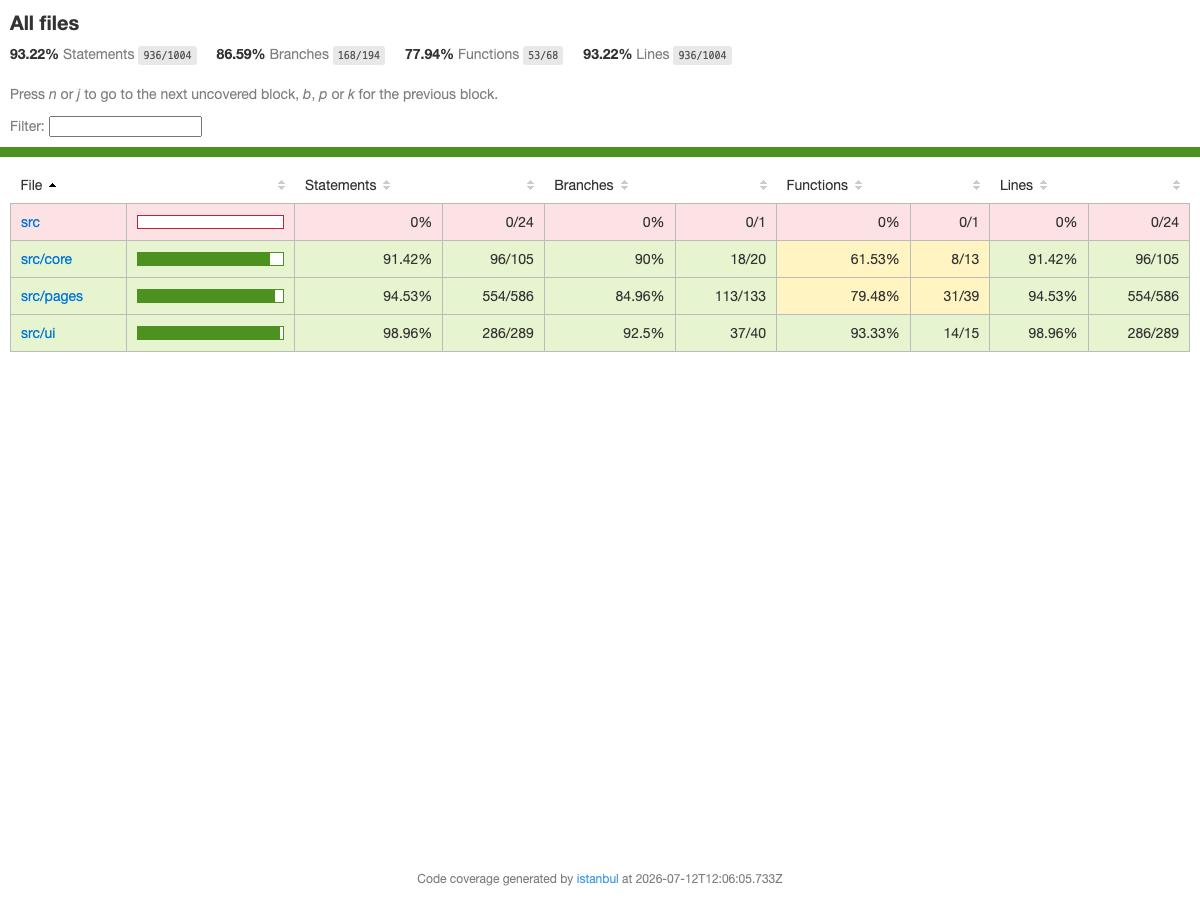
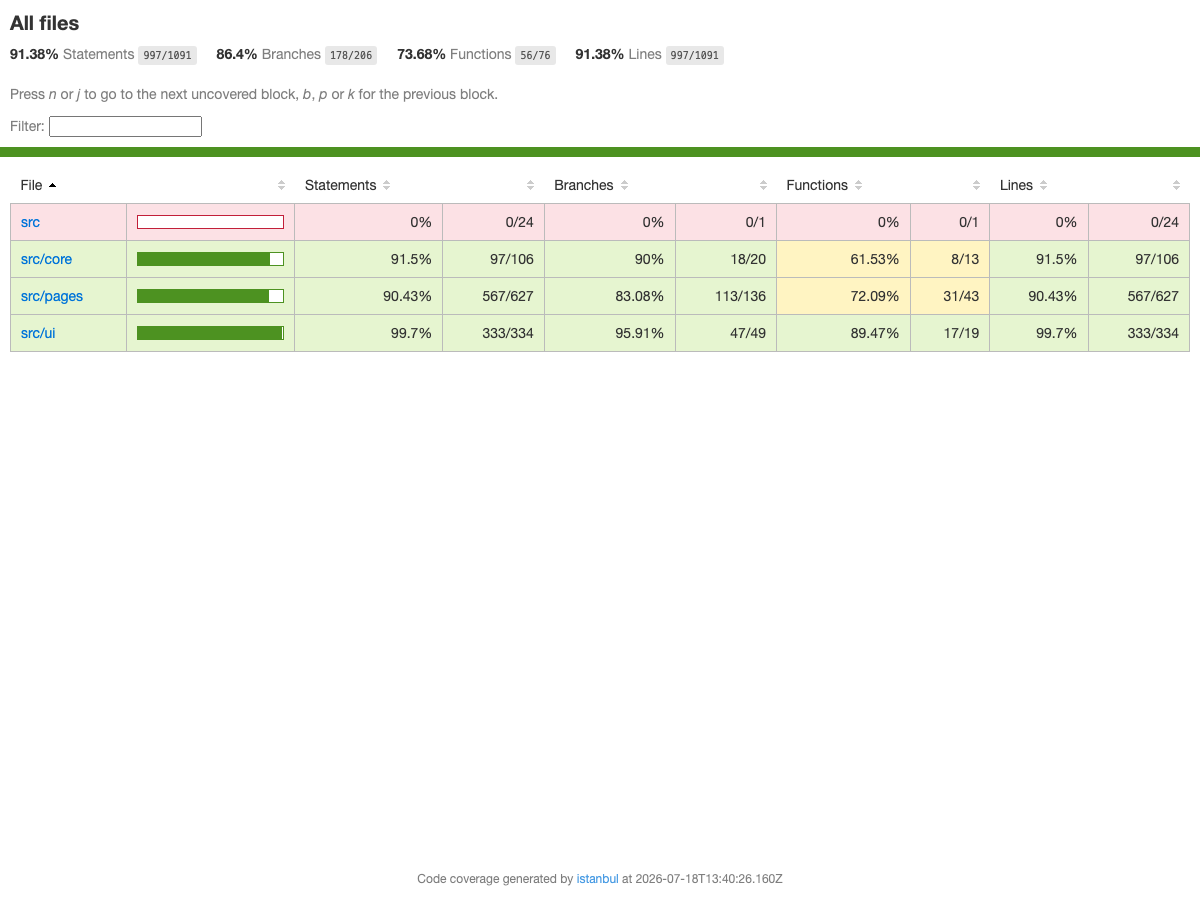
docs: réalignement des métriques de tests + plan de sauvegarde PostgreSQL
Front 49→51 tests et 93→91 % lignes (évolutions mobile + page téléchargement), total 124→126. Captures de couverture régénérées. Formalisation de la procédure de sauvegarde/restauration PostgreSQL (pg_dump, planification, rétention chiffrée hors-site, restauration, test de restauration) dans MAINTENANCE.md.

diff --git a/docs/MAINTENANCE.md b/docs/MAINTENANCE.md
@@ -32,4 +32,51 @@ tests à chaque push mais n'automatise ni les mises à jour de dépendances ni l
 
 ## Données & stockage
 - Les fichiers expirés sont purgés automatiquement (US10) — aucune rétention au-delà de l'expiration.
-- Base PostgreSQL sur volume Docker persistant ; sauvegarde via `pg_dump` (procédure à formaliser pour la production).
+- Base PostgreSQL sur volume Docker persistant.
+
+## Sauvegarde et restauration PostgreSQL (production)
+
+**Périmètre.** PostgreSQL ne contient que les **métadonnées** (utilisateurs, fichiers, tags) : les binaires vivent
+sur le stockage objet **S3**, qui assure sa propre durabilité (réplication, versioning). Le plan de sauvegarde cible
+donc uniquement la base de métadonnées. Cibles indicatives pour ce prototype : **RPO ≤ 24 h** (perte de données
+maximale tolérée), **RTO ≤ 1 h** (délai de remise en service).
+
+**Méthode — sauvegarde logique `pg_dump`.** Portable, compressible, restaurable de façon granulaire. Sauvegarde
+quotidienne, horodatée et compressée :
+
+```bash
+docker compose exec -T db \
+  pg_dump -U "$POSTGRES_USER" -Fc "$POSTGRES_DB" \
+  > "datashare-$(date +%Y%m%d-%H%M).dump"
+```
+
+> Format `-Fc` (custom, compressé) → restauration sélective via `pg_restore`. Pour un très gros volume, envisager
+> en complément un **snapshot du volume Docker** (ou du disque managé côté hébergeur), plus rapide à restaurer.
+
+**Planification.** Tâche **quotidienne** via `cron` (ou un timer `systemd`), en cohérence avec le pattern déjà en
+place pour la purge (`PURGE_CRON`). Exemple (2 h du matin) :
+
+```cron
+0 2 * * *  /opt/datashare/scripts/backup-db.sh   # dump + compression + envoi hors-site
+```
+
+**Rétention.** Rotation type **7 quotidiennes / 4 hebdomadaires / 6 mensuelles**. Les sauvegardes sont **chiffrées**
+(au repos) et stockées **hors-site** (ex. bucket S3 dédié, distinct de celui des fichiers), selon le principe de
+moindre rétention. Purge automatique des sauvegardes au-delà de la fenêtre de rétention.
+
+**Restauration.** Sur une base neuve (le schéma est reconstruit par la sauvegarde ; sinon appliquer d'abord
+`prisma migrate deploy`) :
+
+```bash
+# 1. base cible vide
+docker compose exec -T db createdb -U "$POSTGRES_USER" "$POSTGRES_DB"
+# 2. restauration
+docker compose exec -T db pg_restore -U "$POSTGRES_USER" -d "$POSTGRES_DB" --clean --if-exists \
+  < datashare-AAAAMMJJ-HHMM.dump
+# 3. redémarrer l'API puis vérifier l'intégrité applicative
+docker compose restart back
+```
+
+**Vérification.** Une sauvegarde non testée n'est pas une sauvegarde : **test de restauration périodique**
+(mensuel) sur une base jetable, contrôle du nombre de lignes des tables clés et d'un parcours applicatif de bout en
+bout. Journaliser le succès/échec de chaque sauvegarde et alerter en cas d'échec.

diff --git a/docs/TESTING.md b/docs/TESTING.md
@@ -1,7 +1,7 @@
 # TESTING.md — Plan de tests DataShare
 
 > Périmètre testé : **US01 → US10**. Objectif de couverture : **≥ 70 %** — **atteint**.
-> Dernière exécution complète : **2026-07-12** — **124 tests verts** (54 unitaires back + 21 e2e API + 49 front)
+> Dernière exécution complète : **2026-07-18** — **126 tests verts** (54 unitaires back + 21 e2e API + 51 front)
 > + 1 parcours critique navigateur (Cypress, exécution manuelle — voir plus bas). Suite désormais rejouée
 > automatiquement à chaque push (GitHub Actions, back+front, hors Cypress).
 
@@ -16,7 +16,7 @@ qui rejoue les parcours réels contre une vraie base PostgreSQL, et des tests de
 | Intégration | **Supertest** (`test/app.e2e-spec.ts`, base PostgreSQL réelle) | **React Testing Library** (pages avec hooks API mockés) |
 | End-to-end navigateur | — | **Cypress** — 1 parcours critique (inscription → upload → lien → téléchargement → historique), exécution **manuelle** contre la stack Docker (jamais en CI) |
 
-## Résultats (2026-07-01)
+## Résultats (2026-07-18)
 
 ### Back — unitaires (Jest) : 54 tests, 13 suites ✅
 
@@ -48,13 +48,13 @@ de stockage S3 annule l'upload multipart et nettoie le fichier temporaire en cas
 ciblés (pas de fixture de 100 Mo+ réelle, jugée inutilement lente pour la valeur apportée) : `multer-exception.filter.spec.ts`,
 `staging-cleanup.service.spec.ts`, `s3-storage.service.spec.ts`.
 
-### Front — Vitest + React Testing Library : 49 tests, 13 suites ✅
+### Front — Vitest + React Testing Library : 51 tests, 13 suites ✅
 
 ```
-Statements   : 93.22% ( 936/1004 )
-Branches     : 86.59% ( 168/194 )
-Functions    : 77.94% ( 53/68 )
-Lines        : 93.22% ( 936/1004 )
+Statements   : 91.38% ( 997/1091 )
+Branches     : 86.40% ( 178/206 )
+Functions    : 73.68% ( 56/76 )
+Lines        : 91.38% ( 997/1091 )
 ```
 
 Seuil **70 %** appliqué par `front/vite.config.ts` (`coverage.thresholds`).
@@ -119,7 +119,7 @@ sur l'app lancée.
 ## Couverture — synthèse
 
 - Back : seuil 70 % **imposé** (`back/jest.config.js`, build de test échoue en dessous) ; mesuré **95 % lignes**.
-- Front : seuil 70 % **imposé** (`front/vite.config.ts`) ; mesuré **93 % lignes** (rapport `front/coverage/`).
+- Front : seuil 70 % **imposé** (`front/vite.config.ts`) ; mesuré **91 % lignes** (rapport `front/coverage/`).
 - Captures des rapports HTML incluses : [`reports/coverage-back.png`](./reports/coverage-back.png) et
   [`reports/coverage-front.png`](./reports/coverage-front.png) (rapports complets régénérables via
   `npm run test:cov -w @datashare/back` et `npm test -w front -- --coverage` → `back/coverage/`, `front/coverage/`).

diff --git a/docs/DOCUMENTATION-TECHNIQUE.md b/docs/DOCUMENTATION-TECHNIQUE.md
@@ -299,15 +299,15 @@ ne sont liés à aucun compte → aucun historique ni gestion (lien = seul moyen
 
 Suivi qualité réparti dans quatre fichiers du dossier `docs/`. Résumé :
 
-**[`TESTING.md`](./TESTING.md)** — Plan de tests — **124 tests verts** + 1 parcours Cypress (exécution 2026-07-12)
+**[`TESTING.md`](./TESTING.md)** — Plan de tests — **126 tests verts** + 1 parcours Cypress (exécution 2026-07-18)
 - **Unitaires back** : **Jest**, 54 tests (services auth/files/storage/tags/purge, contrôleurs, guards, pilotes de
   stockage, filtre d'exception upload, nettoyage staging) — couverture **95 % lignes** (seuil 70 % imposé par `coverageThreshold`).
 - **Intégration API** : **Supertest**, 21 tests contre une **vraie base PostgreSQL** — parcours critiques
   US01-US10 rejoués de bout en bout : `inscription → connexion → upload → lien` ; `téléchargement avec/sans
   mot de passe` ; `suppression + ownership` ; `upload anonyme` (US07) ; `tags + filtre` (US08) ; `expiration
   410 + purge` (US10) ; `429 sur abus de login`.
-- **Front** : **Vitest + React Testing Library**, 49 tests (composants `src/ui`, contexte d'auth, route protégée,
-  mutateur API/JWT + interception 401, pages connexion/inscription/espace/upload/téléchargement) — couverture **93 % lignes** (seuil 70 %).
+- **Front** : **Vitest + React Testing Library**, 51 tests (composants `src/ui`, contexte d'auth, route protégée,
+  mutateur API/JWT + interception 401, pages connexion/inscription/espace/upload/téléchargement) — couverture **91 % lignes** (seuil 70 %).
 - **E2E navigateur** : **Cypress**, 1 parcours critique (inscription → upload → téléchargement → historique),
   exécution manuelle contre la stack Docker.
 - **Accessibilité (PSH)** : composants natifs + focus visible + ARIA ; audit Lighthouse recommandé.
@@ -325,7 +325,7 @@ Suivi qualité réparti dans quatre fichiers du dossier `docs/`. Résumé :
 - Procédure **manuelle** de mise à jour des dépendances (`npm outdated` / `npm update`), fréquence, risques
   (breaking changes) et garde-fous (tests de non-régression, rejoués par la CI à chaque push).
 
-> ✅ `TESTING.md` (124 tests, couvertures réelles + captures, + 1 parcours Cypress), `SECURITY.md` (front :
+> ✅ `TESTING.md` (126 tests, couvertures réelles + captures, + 1 parcours Cypress), `SECURITY.md` (front :
 > **0 vulnérabilité livrée** ; back : 6 advisories transitives NestJS, **atténuées**) et `PERF.md` (**k6 exécuté** :
 > ≈ 3 073 req/s, p95 = 26 ms, 0 % d'erreur) sont alimentés en résultats réels. Les tests back+front sont rejoués
 > automatiquement à chaque push (`.github/workflows/ci.yml`).